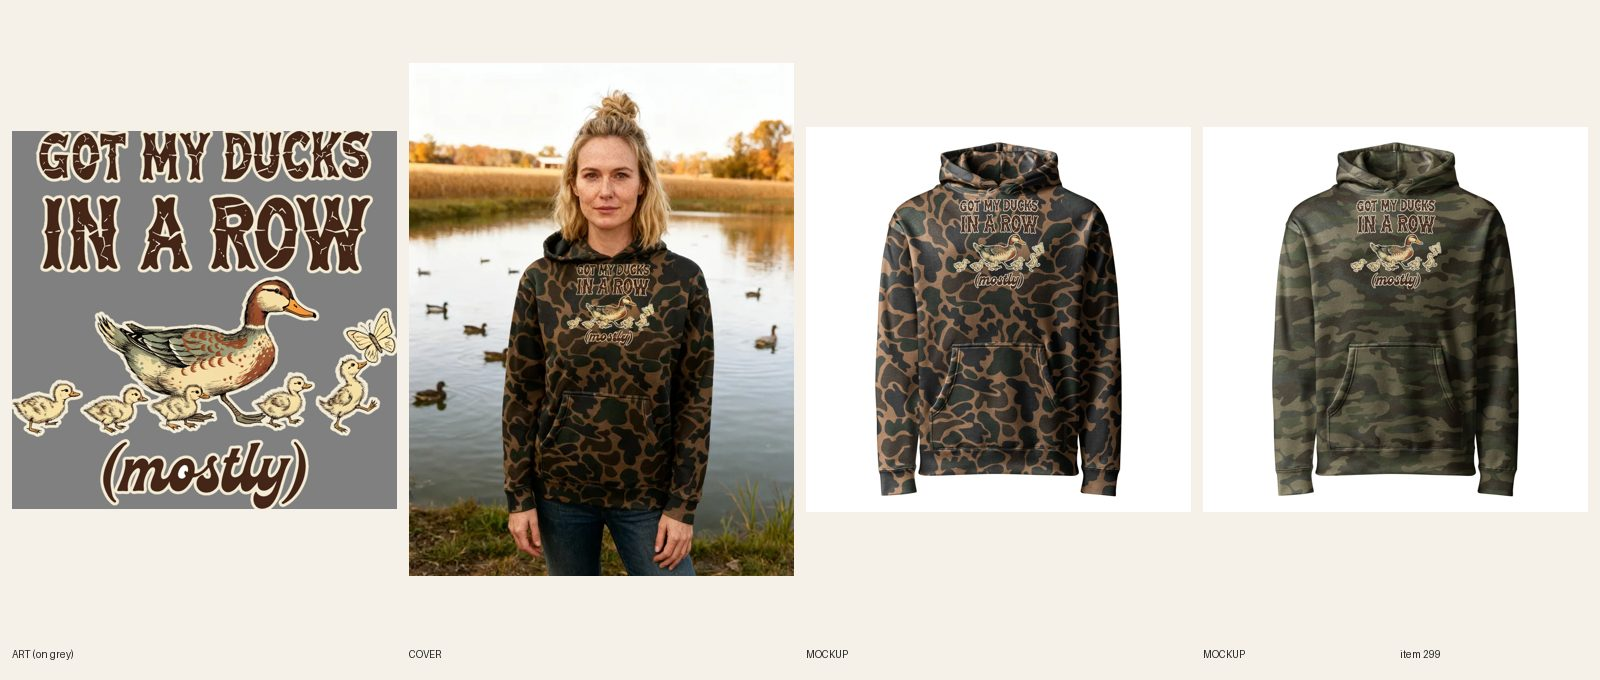
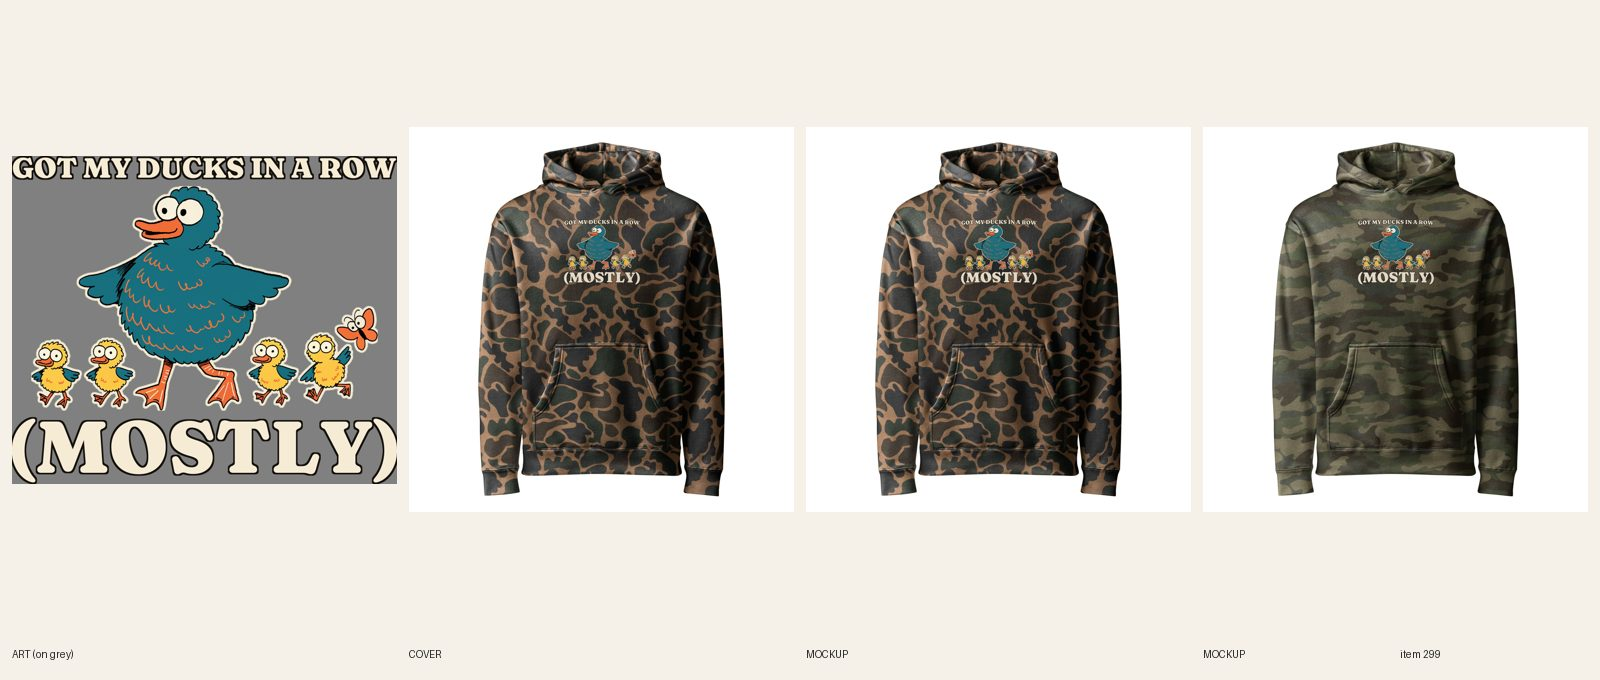
[B] review 299 camo redo 17 (cartoon ducks A+ print); run end, release lock
Claude-Session: https://claude.ai/code/session_016BjbDmXvcMcQ2sE7rtXQYa

Changed region(s): [[0.0, 0.1235, 0.5, 0.8647], [0.8438, 0.2779, 0.9062, 0.4324], [0.5938, 0.2779, 0.6562, 0.4324]]

diff --git a/designs/b299/lock.py b/designs/b299/lock.py
@@ -1,0 +1,16 @@
+import sys, subprocess; sys.path.insert(0, '.')
+from designs.lib import *
+from PIL import Image
+W = 3000; DARK = (20, 16, 12, 255)
+art = Image.open('designs/b299/art_p.png').convert('RGBA'); art = art.crop(art.getbbox())
+subprocess.run(['/usr/bin/python3', 'scripts/camo-halo.py', 'designs/b299/art_p.png', 'designs/b299/art_h.png', '40', '16'], check=True)
+ah = Image.open('designs/b299/art_h.png').convert('RGBA'); ah = ah.crop(ah.getbbox())
+AW = 2700; ah = ah.resize((AW, int(ah.height * AW / ah.width)), Image.LANCZOS)
+h = line('GOT MY DUCKS IN A ROW', 'fraunces', 1.0, W, CREAM, DARK, kw=25)
+p = line('(MOSTLY)', 'fraunces', 1.03, W, CREAM, DARK, kw=25)
+gap = 50; H = h.height + gap + ah.height + gap + p.height; out = Image.new('RGBA', (W, H), (0, 0, 0, 0))
+out.alpha_composite(h, ((W - h.width) // 2, 0)); out.alpha_composite(ah, ((W - ah.width) // 2, h.height + gap)); out.alpha_composite(p, ((W - p.width) // 2, h.height + gap + ah.height + gap))
+out = out.crop(out.getbbox()); out.save('docs/print-files/299-ducks.png', dpi=(300, 300))
+print(out.size, 'headline', h.width, 'punch', p.width, round(100*p.width/h.width), '%', 'caps', h.height, p.height, 'art', ah.size, 'subject %', round(100*ah.width/out.width), 'FW1500 h', round(1500 * out.height / out.width), 'punch cap at FW1500 px', round(p.height*1500/out.width))
+for n, c in (('duck', (92, 100, 70, 255)), ('forest', (52, 62, 44, 255))):
+    b = Image.new('RGBA', out.size, c); b.alpha_composite(out); b.convert('RGB').resize((600, int(600 * out.height / out.width))).save(f'designs/b299/prev_{n}.png')

diff --git a/docs/pipeline/299-camo-hoodie-ducks-in-a-row.md b/docs/pipeline/299-camo-hoodie-ducks-in-a-row.md
@@ -1,4 +1,4 @@
-status: BUILDING B 2026-10-26 22:03
+status: REVIEW
 lane: B
 type: new
 id: 299
@@ -31,3 +31,4 @@ handle: womens-hunting-ducks-in-a-row-camo-hoodie
 - 2026-10-17 03:14 UTC director: approved from docs/review/299.jpg; ACTIVE + Online Store + Headless + Google; cohesion-audit --handle PASS (0 warn). Copy fix: the title lines are stacked, not arched. LIVE.
 - 2026-10-22 22:00 UTC Claude (Sam): REDO, camo redo #17 of 27, style S3. New art in its own style, no box, no condensed sans, placement per docs/backlog/camo-redo.md (never TOP 0). Redo in place.
 - 2026-10-22 22:40 UTC Claude (Sam): placement A/B test, this item is A+ (center 10 in, tag placement-a).
+- 2026-10-26 22:25 UTC [B]: camo-redo #17 (S3 cute cartoon on A+, tag placement-a), in place on product 15362778104112. New art: 1 Recraft call (chunky cartoon mama mallard in teal and orange leading fuzzy ducklings, the last one chasing a butterfly, no lettering), thin cream halo, no box; GOT MY DUCKS IN A ROW above and (MOSTLY) below in Fraunces soft black (lane B last 5 faces: Rye, Alfa, Damion, Bevan, Caveat Brush; Fraunces not among them). headline 3010 / punch 3025 px (100%), subject 2700 of 3000 px = 90%, punch cap 521 px at file width 3000 (260 px at FW1500, floor 90), headline cap 185 px. Print 3000 x 2553, FW1500 TOP400 (h 1276, TOP+h 1676 <= 2100). Light file n/a (Duck and Forest only, cream fill). R7.7: 14/14 on file 1095809649, back logo 1080398177, verified from Printful. Front mockups replaced in place (fileUpdate), copy, SEO, FAQ (4 x 40-60 words), placement-a tag added; title unchanged. Lifestyle: registry 1164/1165 reserved, 2 seedream calls both rejected (grey body with camo sleeves; a zip jacket over a tee), per card flats kept as images 1-2, handle stays in retired-covers (cover: fal-swap). Audit PASS 0 warn. Sheet docs/review/299.jpg. Product is ACTIVE: director to confirm. fal ~$0.20 incl. art.

diff --git a/docs/intake-log.md b/docs/intake-log.md
@@ -1,4 +1,5 @@
-RUNNING lane B since 2026-10-26 22:03 UTC
+2026-10-26 22:25 UTC — [B] REVIEW #299 Women's Hunting – Ducks in a Row Camo Hoodie (camo-redo 17 of 27, S3 cartoon on A+, FW1500 TOP400, 14/14 on 1095809649, headline 3010 / punch 3025 px, subject 90%, Fraunces; photos rejected, flats kept). Product ACTIVE, director to confirm.
+2026-10-26 22:26 UTC — [B] Builder run end: 2 items, camo redos #16 #832 (woodcut cow, B3) and #17 #299 (cartoon ducks, A+); both ACTIVE, director to confirm; lifestyle photos failed (wrong garment/duplicate print) so flats kept on both. New products today: 0 of 6. fal ~$1.2. Lock released.
 2026-10-26 22:01 UTC — [B] REVIEW #832 Men's Farmer – No Days Off Cow Camo Hoodie (camo-redo 16 of 27, S9 woodcut on B3, tag placement-b, FW625 TOP300 LEFT1475, 18/18 on 1095801222 + Deadwood light file 1095802550, line NO DAYS OFF. in Rye, art 89% of print height, cap 74 px; lifestyle photos failed 4 calls so flats kept, cover: fal-swap). Product ACTIVE, director to confirm. fal ~$0.30.
 2026-10-26 17:43 UTC — [B] Builder run end: 2 items, #304 cover-only REDO (no-cup park-bench cover) and camo redo #15 #831 (varsity eagle, A+); both ACTIVE, director to confirm. New products today: 0 of 6. fal ~$0.9. Lock released.
 2026-10-26 17:43 UTC — [B] REVIEW #831 Men's Eagle – Bald by Choice. Majestic by Nature. Camo Hoodie (camo-redo 15 of 27, S6 on A+, FW1500 TOP400, 18/18 on 1095612999, headline 2243 / punch 2993 px, subject 80%, cap 230 px, Graduate; 2 lifestyle photos). Product ACTIVE, director to confirm.

diff --git a/docs/model-registry.md b/docs/model-registry.md
@@ -956,3 +956,5 @@ Rows 11–43 were re-pointed on 2026-10-08 when the briefs were rewritten from d
 | 1161 | Black man, early 50s, shaved bald head, trimmed grey goatee, sturdy build, no hat | USED 2026-10-26 — #831 camo redo second photo |
 | 1162 | Latino man, late 30s, short black hair, trimmed dark beard, stocky build, no hat | RESERVED 2026-10-26 — #832 photos rejected (3 calls), unused |
 | 1163 | white man, late 50s, grey crew cut, weathered face, lean build, no hat | RESERVED 2026-10-26 — #832 photos rejected (3 calls), unused |
+| 1164 | white woman, early 30s, honey-blonde hair in a messy bun, light freckles, medium build | RESERVED 2026-10-26 — #299 photos rejected (2 calls), unused |
+| 1165 | Black woman, late 30s, natural curls to the shoulder, warm smile, medium build | RESERVED 2026-10-26 — #299 photos rejected (2 calls), unused |
